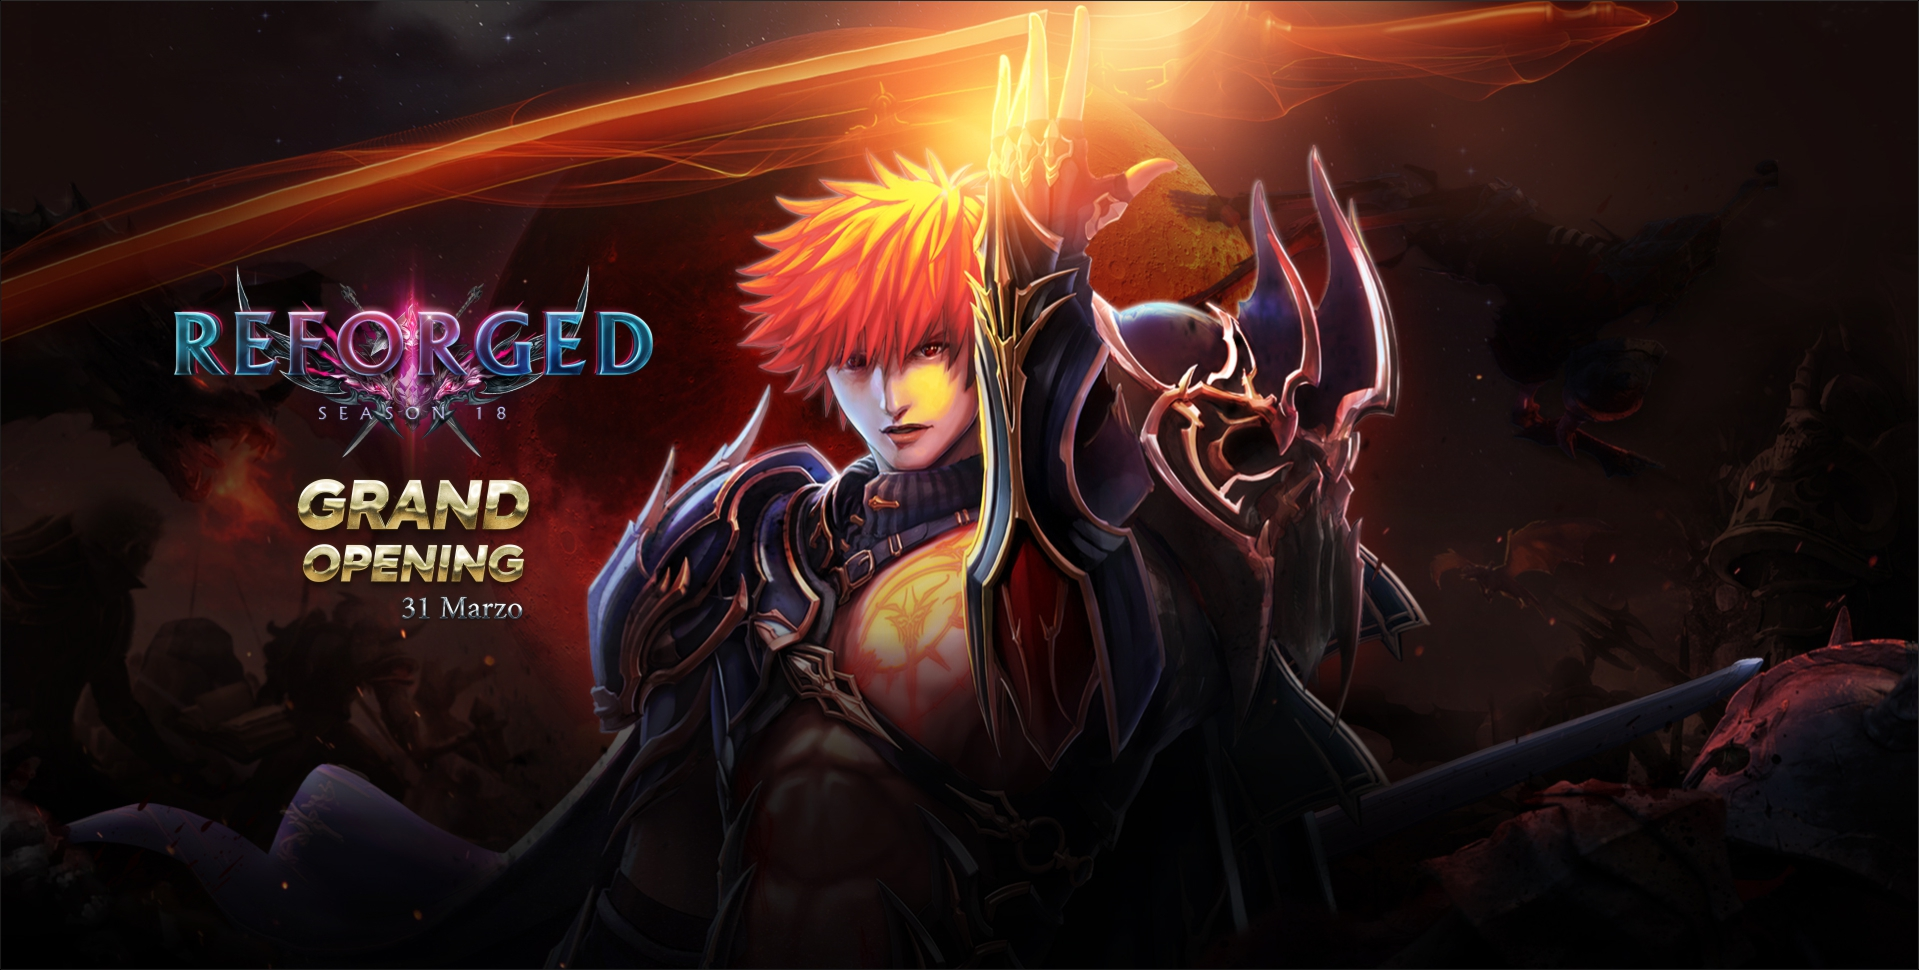
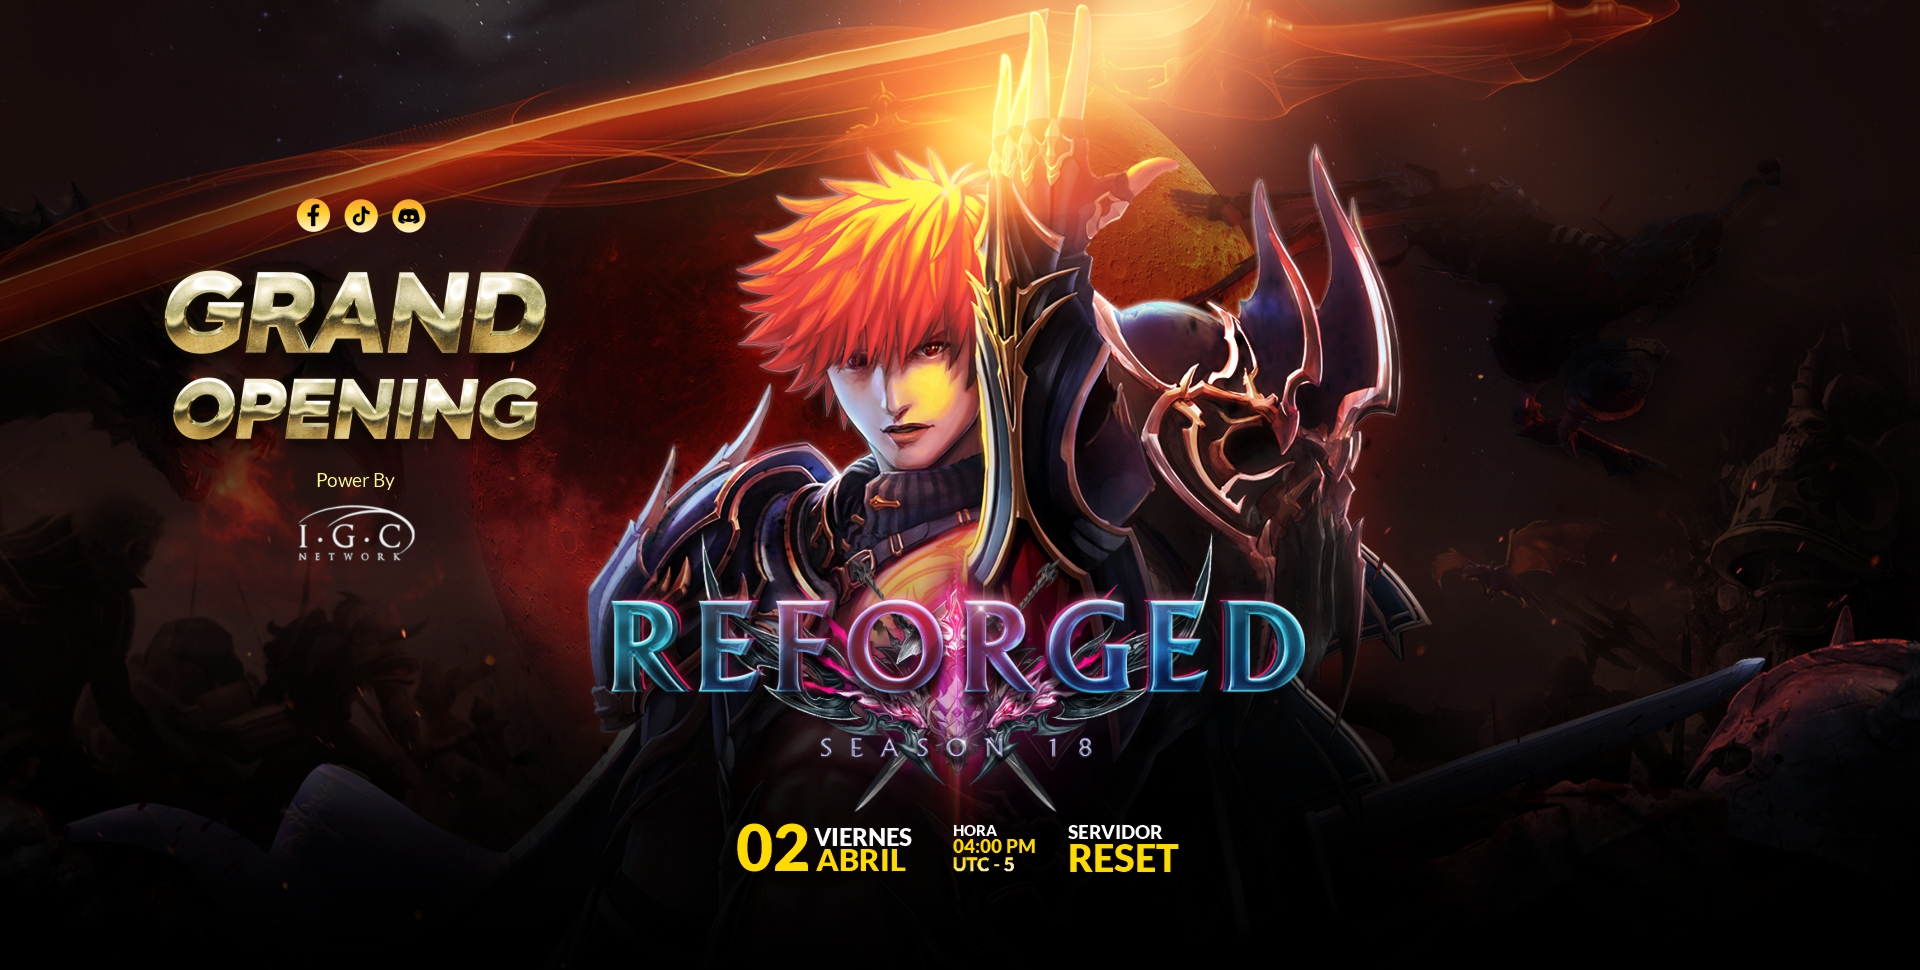
updates

diff --git a/components/opening.js b/components/opening.js
@@ -1,21 +1,13 @@
 import Timer from "./timer";
-import Image from 'next/image';
-import logo from '/public/images/logo.png';
 
 export default function Opening() {
     return (
         <div className="w-full h-screen mx-auto bg-center-center bg-cover bg-no-repeat bg-opening relative">
             <div className="absolute header-opening">
                 <div className="bg-black/50 border border-yellow-200 p-4 inline-block align-text-bottom rounded-lg">
-                    <h1 className='text-white text-2xl text-center font-bold pb-4 '>
-                        <span class="bg-clip-text text-transparent bg-gradient-to-r from-yellow-500 via-yellow-200 to-yellow-500">
-                            MU REFORGED GRAN OPENING
-                        </span>
-                    </h1>
-                    <h2 className='text-white text-5xl text-center font-semibold'>
-                        <Timer  duration={28 * 24 * 60 * 60 * 1000} />
+                    <h2 className='text-white text-2xl text-center font-bold'>
+                        <Timer  duration={31 * 24 * 60 * 60 * 1000} />
                     </h2>
-                    <p className="text-center text-white pt-4 text-1xl font-semibold">Periodo de apertura: 31 de Marzo 2023.</p>
                 </div>
             </div>
         </div>

diff --git a/components/footer.js b/components/footer.js
@@ -1,11 +1,18 @@
+import Link from "next/link";
+
 export default function Footer() {
     return (
-        <footer className="bg-black backdrop-blur border-t border-slate-600/20">
+        <>
+        <div className="banner z-50">
+            <Link href="https://chat.whatsapp.com/CiEAB3EmppgBo7wxsMtZH8" target="_blank" className="r-btn"></Link>
+        </div>
+        <footer className="bg-black backdrop-blur border-t border-slate-600/20 fixed inset-x-0 bottom-0">
             <div className="max-w-7xl mx-auto py-2 px-4 overflow-hidden sm:px-6 lg:px-8">
                 <p className="text-center text-sm">
-                    <span className="text-gray-300">Reforged Games. Global Digital Entertainment Leader COPYRIGHT© Reforged Games. All Right Reserved.</span>
+                    <span className="text-gray-300">Reforged Mu Online Season 18. COPYRIGHT© Reforged Games. All Right Reserved.</span>
                 </p>
             </div>
         </footer>
+        </>
     );
 }

diff --git a/pages/index.js b/pages/index.js
@@ -1,6 +1,4 @@
 import Head from 'next/head'
-import Header from '../components/header'
-import Notices from '../components/notices'
 import Opening from '../components/opening'
 
 export default function Home() {
@@ -14,17 +12,6 @@ export default function Home() {
 
       <main className="bg-black">
         <Opening />
-        <Header />
-        <div className='h-screen bg-cover bg-no-repeat bg-body mx-auto relative overflow-hidden'>
-          <div>
-            <span className='bg-top absolute z-10 bg-no-repeat'></span>
-          </div>
-          <div className='w-7/12 mx-auto h-auto pt-10 container'>
-            <img className='mx-auto' src="/images/title-home.png" alt="asset" />
-            <h2 className='text-7xl text-red-700 font-black text-center'>MU REFORGED SEASON 18</h2>
-          </div>
-          <Notices />
-        </div>
       </main>
 
     </div>

diff --git a/pages/home.js b/pages/home.js
@@ -1,0 +1,20 @@
+import Header from "../components/header";
+import Notices from "../components/notices";
+
+export default function Home() {
+    return (
+        <>
+            <Header />
+                <div className='h-screen bg-cover bg-no-repeat bg-body mx-auto relative overflow-hidden'>
+                <div>
+                    <span className='bg-top absolute z-10 bg-no-repeat'></span>
+                </div>
+                <div className='w-7/12 mx-auto h-auto pt-10 container'>
+                    <img className='mx-auto' src="/images/title-home.png" alt="asset" />
+                    <h2 className='text-7xl text-red-700 font-black text-center'>MU REFORGED SEASON 18</h2>
+                </div>
+                <Notices />
+            </div>
+        </>
+    );
+}

diff --git a/components/header.js b/components/header.js
@@ -8,9 +8,6 @@ export default function Header() {
                 <span className="bg-asset absolute z-20"></span>
                 <span className="bg-title bg-contain absolute bg-no-repeat bg-center inset-x-0 bottom-0 h-16 z-30"></span>
             </div>
-            <div className="banner z-50">
-                <Link href="/register" className="r-btn">Register</Link>
-            </div>
         </div>
     );
 }

diff --git a/styles/globals.css b/styles/globals.css
@@ -28,7 +28,7 @@ body {
 }
 
 .header-opening {
-  bottom: 1%;
+  bottom: 38%;
   left: 50%;
   transform: translate(-50%, -50%);
 }
